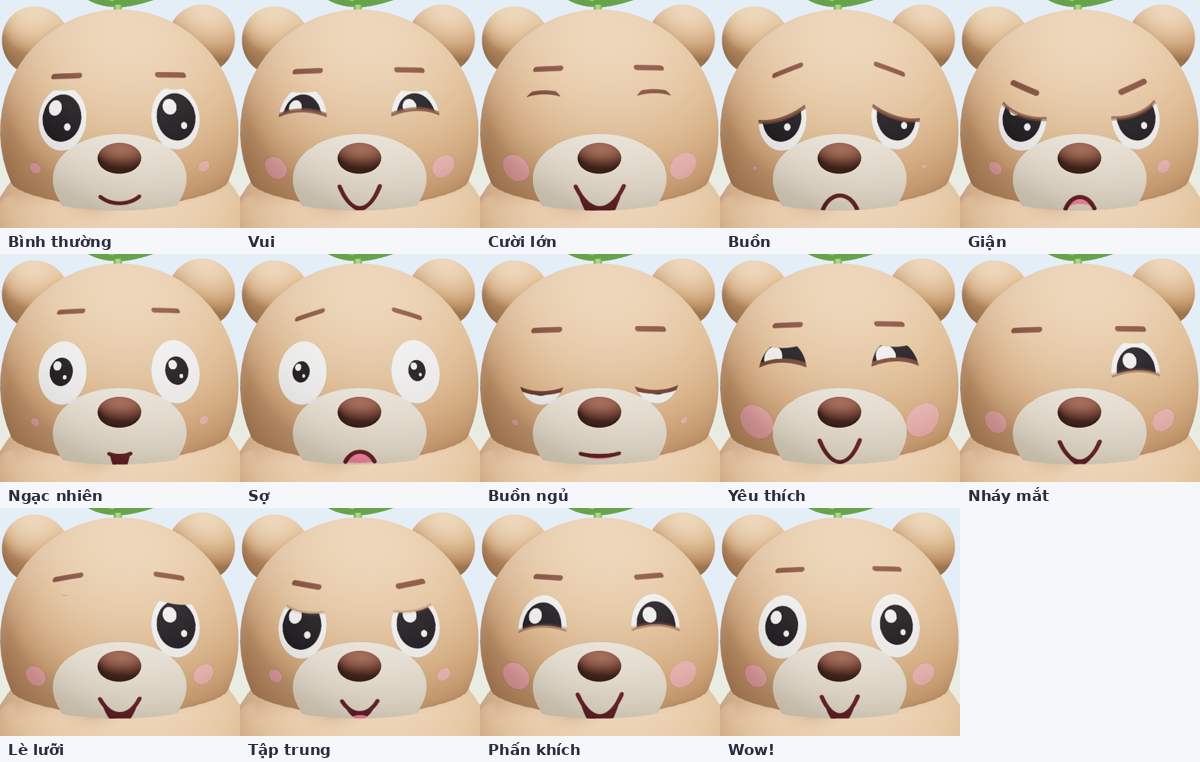
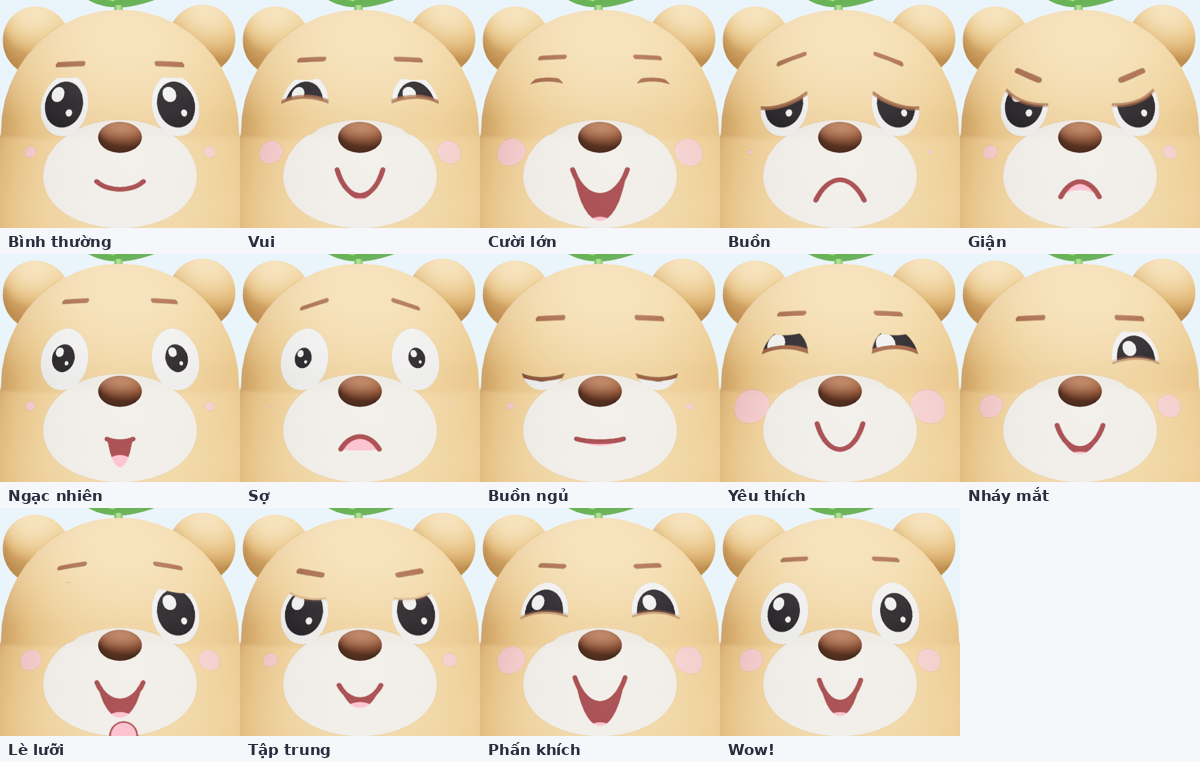
Make the body one egg-shaped lathe with a fixed painted face
Head and body are now a single revolved profile. The face plate is a
partial lathe offset from that same profile, so the painted muzzle and
mouth sit on the belly flare instead of being swallowed by it. Face and
nose are fixed to the body; only ears and leaf follow head rotation.
Arms rest out to the sides, legs are shortened so only the feet show,
colors are brighter, and jump/fly poses are adjusted for the new body.

Claude-Session: https://claude.ai/code/session_01XfAFHLUWr4VmbzBbTFZedP

diff --git a/character/js/character.js b/character/js/character.js
@@ -5,11 +5,11 @@ import * as THREE from 'three';
 import { createFacePlate } from './face2d.js';
 
 export const PALETTE = {
-  body:   '#C9966F', // lông chính (nâu mật ong)
-  belly:  '#F1DCC2', // bụng / mõm / tai trong (kem)
-  accent: '#5E3A2E', // tay, chân, đuôi sọc, mũi (nâu đậm)
-  leaf:   '#7CCB5A', // lá trên đầu
-  cheek:  '#F29AA6', // má hồng
+  body:   '#EBA863', // lông chính (mật ong sáng)
+  belly:  '#FFF1DB', // bụng / mõm / tai trong (kem)
+  accent: '#6E4530', // tay, chân, đầu đuôi, mũi (nâu)
+  leaf:   '#6BD45E', // lá trên đầu
+  cheek:  '#FF9DB4', // má hồng
   eye:    '#FFFFFF',
   pupil:  '#1E1B22',
   mouth:  '#6E2F34',
@@ -74,36 +74,57 @@ export function buildCharacter() {
   nodes.Root = root;
 
   const hips = G('Hips', root, 0, 0.45, 0);
+  const HEAD_R = 0.52;
+  const HEAD_Y = 1.15;                 // tâm đầu (world)
 
-  // Thân: một khối tròn ú, bụng kem phía trước, 3 chấm bụng
-  E('Body', hips, mats.body, 0, 0.17, 0, 0.60, 0.54, 0.54);
-  E('Belly', hips, mats.belly, 0, 0.06, 0.40, 0.36, 0.33, 0.18);
+  // Thân + đầu = MỘT khối trứng xoay tròn. Nửa trên là mặt cầu bán kính HEAD_R quanh tâm đầu,
+  // phía dưới phình ra thành bụng rồi thu lại ở đáy. Profile (r, y) tính theo world, đi từ dưới lên.
+  let profile;
+  {
+    const top = [];
+    for (let i = 0; i <= 12; i++) {
+      const a = Math.PI / 2 - (i / 12) * (Math.PI / 2);
+      top.push(new THREE.Vector3(HEAD_R * Math.cos(a), HEAD_Y + HEAD_R * Math.sin(a), 0));
+    }
+    const belly = [[0.565, 0.98], [0.61, 0.78], [0.62, 0.58], [0.585, 0.38], [0.49, 0.20], [0.32, 0.09], [0.0, 0.06]];
+    const curve = new THREE.CatmullRomCurve3([top[top.length - 1], ...belly.map(([r, y]) => new THREE.Vector3(r, y, 0))], false, 'centripetal');
+    const lower = curve.getPoints(60).slice(1);
+    profile = [...top, ...lower].reverse().map((v) => new THREE.Vector2(v.x, v.y));
+    M('Body', hips, new THREE.LatheGeometry(profile.map((v) => new THREE.Vector2(v.x, v.y - 0.45)), 96), mats.body);
+  }
+  E('Belly', hips, mats.belly, 0, 0.08, 0.44, 0.34, 0.29, 0.20);
 
   // Đuôi: một bầu dục tròn trịa phía sau, đầu đuôi màu đậm
-  const tail = G('Tail', hips, 0, 0.12, -0.50);
+  const tail = G('Tail', hips, 0, 0.08, -0.50);
   tail.rotation.x = 0.35;
-  E('TailMesh', tail, mats.body, 0, 0.22, 0, 0.20, 0.28, 0.17);
-  E('TailTip', tail, mats.accent, 0, 0.42, 0, 0.11, 0.10, 0.10);
+  E('TailMesh', tail, mats.body, 0, 0.22, 0, 0.19, 0.26, 0.16);
+  E('TailTip', tail, mats.accent, 0, 0.40, 0, 0.10, 0.09, 0.09);
 
   // Tay + chân: đối xứng L (+X) / R (-X)
   for (const [side, sg] of [['L', 1], ['R', -1]]) {
-    // Chân: ngắn, lòi ra phía trước dưới bụng
-    const leg = G('Leg' + side, hips, 0.22 * sg, -0.02, 0.14);
-    M('Shin' + side, leg, capsule(0.11, 0.10), mats.accent, 0, -0.22, 0);
-    E('Foot' + side, leg, mats.accent, 0, -0.35, 0.09, 0.14, 0.09, 0.19);
+    // Chân: rất ngắn, bàn chân chỉ lòi ra dưới thân
+    const leg = G('Leg' + side, hips, 0.21 * sg, -0.10, 0.03);
+    M('Shin' + side, leg, capsule(0.10, 0.08), mats.accent, 0, -0.16, 0);
+    E('Foot' + side, leg, mats.accent, 0, -0.27, 0.08, 0.14, 0.08, 0.17);
 
-    // Tay: ngắn, mặc định đặt lên bụng (hướng tay = từ vai tới điểm trên bụng)
-    const sh = G('Shoulder' + side, hips, 0.42 * sg, 0.26, 0.30);
-    const dir = new THREE.Vector3(-0.14 * sg, -0.11, 0.22).normalize();
-    sh.quaternion.setFromUnitVectors(new THREE.Vector3(0, -1, 0), dir);
-    M('Arm' + side, sh, capsule(0.10, 0.12), mats.accent, 0, -0.12, 0);
-    M('Hand' + side, sh, sphere(0.12), mats.accent, 0, -0.26, 0);
+    // Tay: dang ra hai bên, hơi chúc xuống
+    const sh = G('Shoulder' + side, hips, 0.52 * sg, 0.42, 0.12);
+    sh.rotation.z = 1.0 * sg;
+    sh.rotation.x = -0.15;
+    M('Arm' + side, sh, capsule(0.095, 0.14), mats.accent, 0, -0.12, 0);
+    M('Hand' + side, sh, sphere(0.115), mats.accent, 0, -0.27, 0);
   }
 
-  // Cổ → Đầu dính liền thân (không có khe cổ)
-  const neck = G('Neck', hips, 0, 0.45, 0);
-  const head = M('Head', neck, sphere(0.52, 48, 32), mats.body, 0, 0.25, 0);
-  // Đầu world: tâm y = 1.15, đỉnh 1.67
+  // Mặt + mũi gắn CỐ ĐỊNH vào thân (một khối, kiểu Fall Guys). FaceAnchor đặt ở tâm đầu.
+  const faceAnchor = G('FaceAnchor', hips, 0, HEAD_Y - 0.45, 0);
+  E('Nose', faceAnchor, mats.accent, 0, 0.0, 0.545, 0.075, 0.052, 0.05);
+  const plate = createFacePlate(profile.map((v) => new THREE.Vector2(v.x, v.y - HEAD_Y)), HEAD_R);
+  faceAnchor.add(plate.mesh);
+  nodes.FacePlate = plate.mesh;
+
+  // Cổ = pivot ở TÂM đầu: chỉ tai và lá xoay khi "gật / nghiêng đầu"
+  const neck = G('Neck', hips, 0, HEAD_Y - 0.45, 0);
+  const head = G('Head', neck, 0, 0, 0);
 
   // Tai tròn + tai trong kem
   for (const [side, sg] of [['L', 1], ['R', -1]]) {
@@ -111,9 +132,6 @@ export function buildCharacter() {
     M('EarMesh' + side, ear, sphere(0.15), mats.body);
     E('EarInner' + side, ear, mats.belly, 0, 0, 0.08, 0.085, 0.085, 0.05);
   }
-
-  // Mũi (khối). Mõm, mắt, mày, miệng, má được VẼ 2D trên FacePlate (face2d.js)
-  E('Nose', head, mats.accent, 0, -0.06, 0.545, 0.075, 0.052, 0.05);
 
   // Lá trên đầu: một lá to + một lá nhỏ; khi bay thì "Prop" xoay như cánh quạt
   const tuft = G('Tuft', head, 0, 0.50, 0.02);
@@ -125,10 +143,6 @@ export function buildCharacter() {
   const leafB = E('LeafB', prop, mats.leaf, -0.07, 0.0, 0, 0.08, 0.02, 0.045);
   leafB.rotation.z = -0.3;
 
-  // Mặt 2D "vẽ lên": chỏm cầu dán texture canvas, ôm sát đầu (face2d.js)
-  const plate = createFacePlate(0.52);
-  head.add(plate.mesh);
-  nodes.FacePlate = plate.mesh;
 
   // ---------- Lưu tư thế nghỉ ----------
   const rest = {};

diff --git a/character/js/face2d.js b/character/js/face2d.js
@@ -1,14 +1,19 @@
-// face2d.js — Mặt "vẽ lên": vẽ mắt / mày / miệng / má bằng Canvas 2D rồi dán thành texture
-// lên một chỏm cầu (FacePlate) ôm sát phía trước đầu. Dùng CHUNG bộ tham số biểu cảm của face.js.
+// face2d.js — Mặt "vẽ lên": vẽ mõm / mắt / mày / miệng / má bằng Canvas 2D rồi dán thành texture
+// lên tấm FacePlate ôm sát phía trước thân. Dùng CHUNG bộ tham số biểu cảm của face.js.
 //
-// Toạ độ vẽ = góc trên mặt cầu (radian): x ngang (−1.1 … 1.1), y dọc (−0.7 … 0.9), gốc ở giữa mặt.
+// Toạ độ vẽ = góc quanh tâm đầu (radian): x ngang (−1.1 … 1.1), y dọc (−0.7 … 0.9) tính theo chiều dài cung / bán kính đầu.
 import * as THREE from 'three';
 
 export const FACE2D = { W: 1024, H: 768, X0: -1.1, X1: 1.1, Y0: -0.7, Y1: 0.9 };
 const clamp = (x, a, b) => Math.min(b, Math.max(a, x));
 
-/** Tạo chỏm cầu + canvas. headRadius = bán kính đầu. Trả về { mesh, draw(f, colors), texture }. */
-export function createFacePlate(headRadius) {
+/**
+ * Tạo tấm mặt + canvas. `profile` = mảng điểm (r, y) của thân, toạ độ gốc ở TÂM ĐẦU, đi từ dưới lên;
+ * headRadius để quy đổi chiều dài cung → "góc" (toạ độ vẽ). Tấm mặt = lathe một phần, lệch ra 1.2 cm
+ * khỏi thân nên bám sát từ trán xuống mõm dù thân dưới phình to hơn cầu.
+ * Trả về { mesh, draw(f, colors), texture }.
+ */
+export function createFacePlate(profile, headRadius) {
   const canvas = document.createElement('canvas');
   canvas.width = FACE2D.W;
   canvas.height = FACE2D.H;
@@ -17,12 +22,27 @@ export function createFacePlate(headRadius) {
   texture.colorSpace = THREE.SRGBColorSpace;
   texture.anisotropy = 4;
 
-  const phiLen = FACE2D.X1 - FACE2D.X0;
-  const thetaLen = FACE2D.Y1 - FACE2D.Y0;
-  // Chỏm cầu: phi quanh +Z (phi = π/2 là chính diện), theta tính từ cực +Y
-  const geo = new THREE.SphereGeometry(headRadius + 0.012, 64, 48,
-    Math.PI / 2 + FACE2D.X0, phiLen,
-    Math.PI / 2 - FACE2D.Y1, thetaLen);
+  // Chiều dài cung tính từ xích đạo (y = 0) → "góc" a = s / headRadius
+  const pts = profile.map((v) => new THREE.Vector2(v.x, v.y));
+  const eq = pts.reduce((best, v, i) => (Math.abs(v.y) < Math.abs(pts[best].y) ? i : best), 0);
+  const arc = new Array(pts.length).fill(0);
+  for (let i = eq + 1; i < pts.length; i++) arc[i] = arc[i - 1] + pts[i].distanceTo(pts[i - 1]);
+  for (let i = eq - 1; i >= 0; i--) arc[i] = arc[i + 1] - pts[i].distanceTo(pts[i + 1]);
+  const at = (a) => {                                   // nội suy điểm + pháp tuyến tại góc a
+    const sTarget = a * headRadius;
+    let i = 0;
+    while (i < pts.length - 2 && arc[i + 1] < sTarget) i++;
+    const t = clamp((sTarget - arc[i]) / (arc[i + 1] - arc[i] || 1), 0, 1);
+    const pnt = pts[i].clone().lerp(pts[i + 1], t);
+    const tan = pts[i + 1].clone().sub(pts[i]).normalize();
+    const nrm = new THREE.Vector2(tan.y, -tan.x);        // hướng ra ngoài
+    return pnt.addScaledVector(nrm, 0.012);
+  };
+  const N = 48;
+  const platePts = [];
+  for (let j = 0; j < N; j++) platePts.push(at(FACE2D.Y0 + (j / (N - 1)) * (FACE2D.Y1 - FACE2D.Y0)));
+  const geo = new THREE.LatheGeometry(platePts, 64, FACE2D.X0, FACE2D.X1 - FACE2D.X0);
+
   // alphaTest loại pixel trong suốt; không nhận bóng vì bóng VSM sẽ in vệt lên vùng trong suốt
   const mat = new THREE.MeshStandardMaterial({ map: texture, transparent: true, alphaTest: 0.02, depthWrite: false, roughness: 0.9, metalness: 0 });
   const mesh = new THREE.Mesh(geo, mat);
@@ -56,7 +76,7 @@ export function drawFace(ctx, f, c) {
 
   // Mõm kem (vẽ phẳng; mũi vẫn là khối 3D)
   ctx.fillStyle = c.belly;
-  ell(0, -0.33, 0.50, 0.37);
+  ell(0, -0.24, 0.50, 0.35);
   ctx.fill();
 
   // Má hồng
@@ -64,12 +84,12 @@ export function drawFace(ctx, f, c) {
   if (b > 0.01) {
     ctx.fillStyle = c.cheek;
     ctx.globalAlpha = 0.85;
-    for (const sg of [1, -1]) { ell(sg * 0.64, -0.20, 0.11 * b, 0.08 * b); ctx.fill(); }
+    for (const sg of [1, -1]) { ell(sg * 0.64, -0.12, 0.11 * b, 0.08 * b); ctx.fill(); }
     ctx.globalAlpha = 1;
   }
 
   // Mắt
-  const ex = 0.40, ey = 0.14, rx = 0.185, ry = 0.21;
+  const ex = 0.40, ey = 0.21, rx = 0.185, ry = 0.21;
   for (const sg of [1, -1]) {
     const cx = sg * ex, cy = ey;
     const extra = sg < 0 ? f.wink : 0;              // nháy mắt phải (−X)
@@ -125,7 +145,7 @@ export function drawFace(ctx, f, c) {
   ctx.strokeStyle = c.accent;
   ctx.lineWidth = 0.04 * sx;
   for (const sg of [1, -1]) {
-    const bx = sg * ex, by = 0.43 + f.browUp * 1.8 - Math.abs(f.brow) * 0.02;
+    const bx = sg * ex, by = 0.50 + f.browUp * 1.8 - Math.abs(f.brow) * 0.02;
     const ang = -sg * f.brow * 0.6;
     const L = 0.11;
     ctx.beginPath();
@@ -135,7 +155,7 @@ export function drawFace(ctx, f, c) {
   }
 
   // Miệng: đường môi trên (bezier), khoang miệng mở, lưỡi
-  const my = -0.42;
+  const my = -0.33;
   const w = 0.28 * clamp(f.width, 0.4, 1.4);
   const k = f.curve * 0.11;
   const op = clamp(f.open, 0, 1);

diff --git a/character/js/poses.js b/character/js/poses.js
@@ -50,8 +50,8 @@ export const POSES = {
     n.LegR.rotation.x = -0.65 * s;
     n.FootL.rotation.x = -0.25 * s;
     n.FootR.rotation.x = 0.25 * s;
-    n.ShoulderL.rotation.set(-0.55 * s, 0, 0.35);
-    n.ShoulderR.rotation.set(0.55 * s, 0, -0.35);
+    n.ShoulderL.rotation.set(-0.55 * s, 0, 0.7);
+    n.ShoulderR.rotation.set(0.55 * s, 0, -0.7);
     n.Hips.position.y += 0.035 * (0.5 - 0.5 * Math.cos(2 * th));
     n.Hips.rotation.x = 0.08;
     n.Hips.rotation.z = 0.06 * s;
@@ -73,8 +73,8 @@ export const POSES = {
     n.FootR.rotation.x = 0.4 * s;
     n.ShoulderL.rotation.x = -0.9 * s;
     n.ShoulderR.rotation.x = 0.9 * s;
-    n.ShoulderL.rotation.z = 0.6;
-    n.ShoulderR.rotation.z = -0.6;
+    n.ShoulderL.rotation.z = 0.85;
+    n.ShoulderR.rotation.z = -0.85;
     n.Hips.position.y += 0.07 * (0.5 - 0.5 * Math.cos(2 * th));
     n.Hips.rotation.x = 0.30;
     n.Hips.rotation.z = 0.05 * s;
@@ -102,11 +102,9 @@ export const POSES = {
       n.Root.position.y = 1.3 * 4 * p * (1 - p);
       const st = Math.pow(Math.abs(Math.cos(Math.PI * p)), 1.5) * (p < 0.5 ? 0.25 : 0.12);
       squash(n, 1 + st);
-      const k = sm(p / 0.25);
-      n.ShoulderL.rotation.x = lerp(0.9, -2.7, k);
-      n.ShoulderR.rotation.x = lerp(0.9, -2.7, k);
-      n.ShoulderL.rotation.z = 0.35 + 0.45 * k;
-      n.ShoulderR.rotation.z = -(0.35 + 0.45 * k);
+      const k = sm(p / 0.25);                              // tay giơ lên theo chiều ngang (không che mặt)
+      n.ShoulderL.rotation.set(lerp(0.9, -0.3, k), 0, lerp(1.0, 2.5, k));
+      n.ShoulderR.rotation.set(lerp(0.9, -0.3, k), 0, -lerp(1.0, 2.5, k));
       const tuck = Math.sin(Math.PI * p);
       n.LegL.rotation.x = -1.0 * tuck;
       n.LegR.rotation.x = -1.0 * tuck;
@@ -174,16 +172,16 @@ export const POSES = {
     n.ShoulderL.rotation.y = n.ShoulderR.rotation.y = 0;
     const bob = Math.sin(TAU * t / 1.25);
     n.Root.position.y = 0.12 * bob;
-    n.Hips.rotation.x = 1.3 + 0.05 * bob;
+    n.Hips.rotation.x = 0.7 + 0.05 * bob;
     n.Hips.position.y += 0.3;
     const flap = Math.sin(TAU * 2 * t);
-    n.ShoulderL.rotation.z = 1.45 + 0.25 * flap;
-    n.ShoulderR.rotation.z = -(1.45 + 0.25 * flap);
+    n.ShoulderL.rotation.z = 1.7 + 0.3 * flap;
+    n.ShoulderR.rotation.z = -(1.7 + 0.3 * flap);
     n.ShoulderL.rotation.x = -0.2;
     n.ShoulderR.rotation.x = -0.2;
     n.LegL.rotation.x = 0.15 + 0.12 * Math.sin(TAU * 2 * t);
     n.LegR.rotation.x = 0.15 + 0.12 * Math.sin(TAU * 2 * t + 1);
-    n.Neck.rotation.x = -1.05;
+    n.Neck.rotation.x = -0.3;
     n.Tuft.rotation.x = 0;
     n.Prop.rotation.y = t * 40;
     squash(n, 1 + 0.03 * bob);

diff --git a/character/js/app.js b/character/js/app.js
@@ -29,14 +29,14 @@ renderer.outputColorSpace = THREE.SRGBColorSpace;
 renderer.toneMapping = THREE.ACESFilmicToneMapping;
 renderer.toneMappingExposure = 1.05;
 
-const SKY = '#E4EEF6';
+const SKY = '#EAF4FB';
 const scene = new THREE.Scene();
 scene.background = new THREE.Color(SKY);
 scene.fog = new THREE.Fog(SKY, 16, 40);
 {
   const pmrem = new THREE.PMREMGenerator(renderer);
   scene.environment = pmrem.fromScene(new RoomEnvironment(), 0.04).texture;
-  scene.environmentIntensity = 0.55;
+  scene.environmentIntensity = 0.65;
   pmrem.dispose();
 }
 
@@ -70,7 +70,7 @@ scene.add(rim);
   const c = document.createElement('canvas');
   c.width = c.height = 256;
   const g = c.getContext('2d');
-  g.fillStyle = '#D3E4C3';
+  g.fillStyle = '#DCEFCB';
   g.fillRect(0, 0, 256, 256);
   g.fillStyle = 'rgba(90, 120, 80, 0.16)';
   g.beginPath(); g.arc(128, 128, 9, 0, Math.PI * 2); g.fill();
